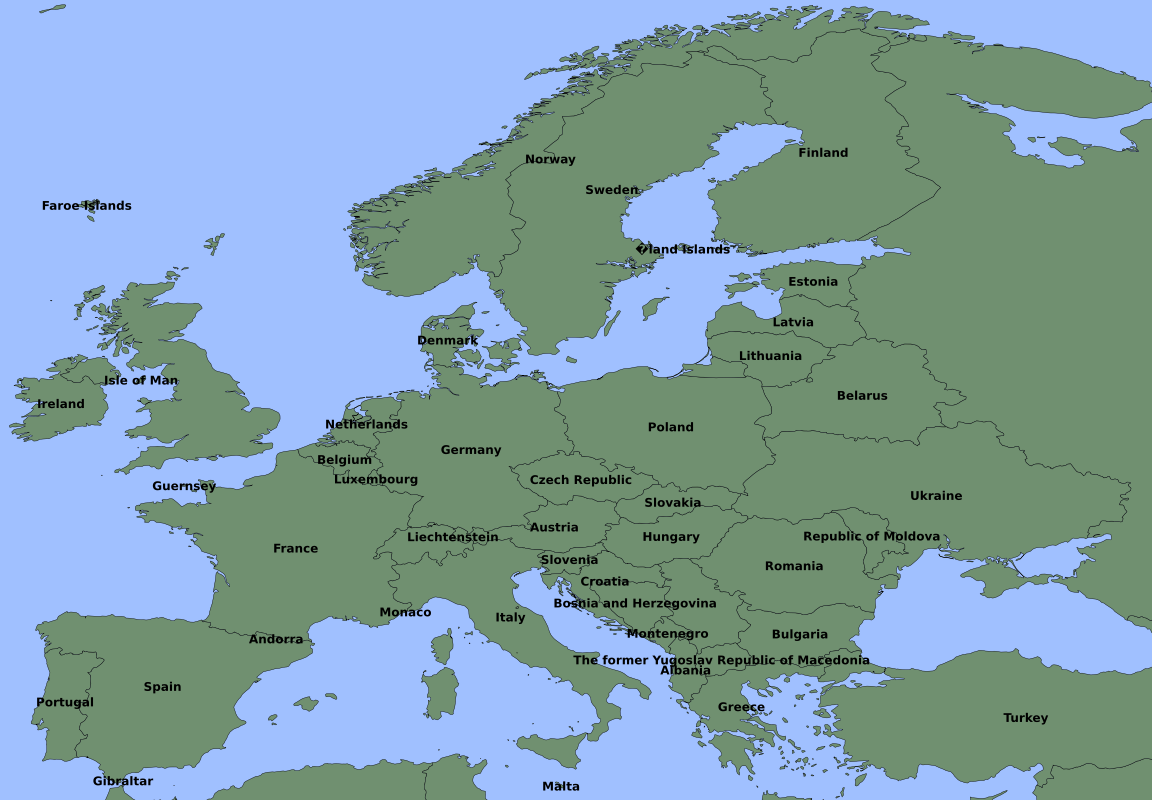
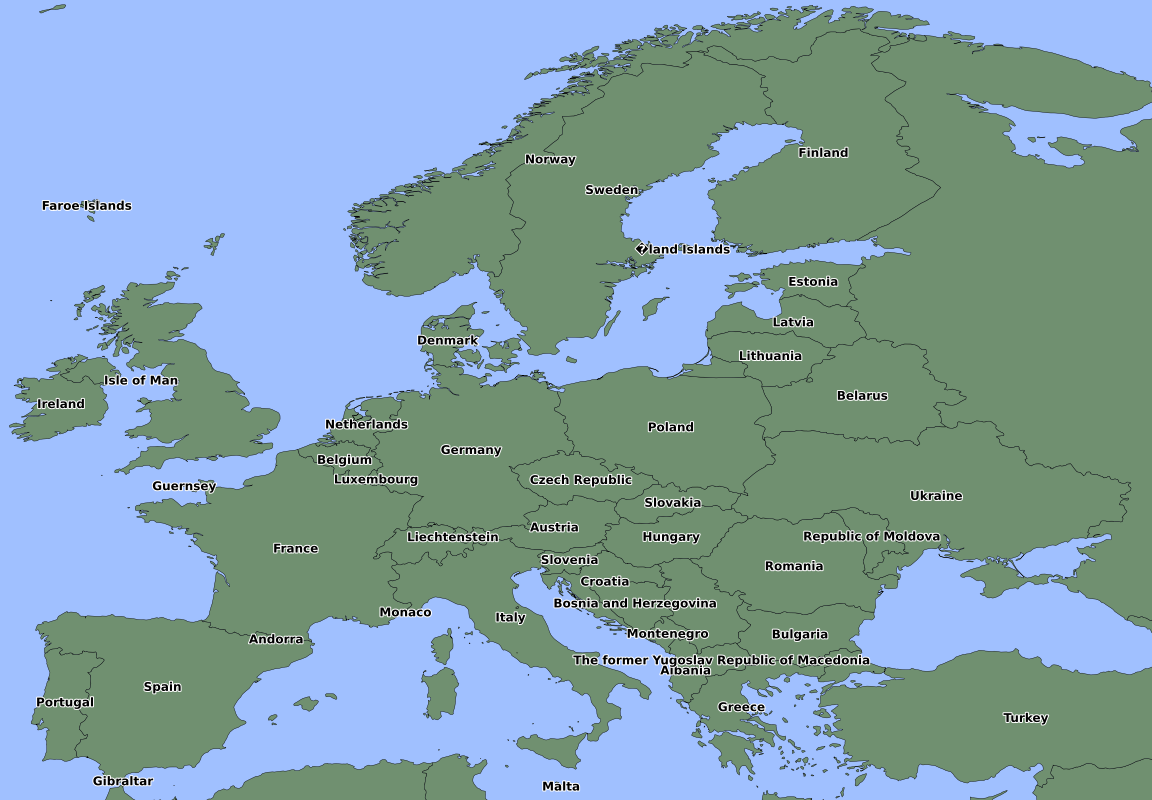
changed syntax with how modules were being imported, changed the visible extent to match a feature's bounding box

diff --git a/mapnik/shapeToMap.py b/mapnik/shapeToMap.py
@@ -1,13 +1,37 @@
 import mapnik
+from osgeo import gdal, ogr
+from shapely import geometry
+
+countryChosen = raw_input('Which country would you like to see? ')
+countryChosen = countryChosen.lower()
+print countryChosen
+
+#find bounding box for a specific feature
+shapefile = ogr.Open("TM_WORLD_BORDERS-0.3.shp")
+layer = shapefile.GetLayer(0)
+
+for i in range(layer.GetFeatureCount()):
+    feature = layer.GetFeature(i)
+    feature_name = feature.GetField("NAME")
+    feature_name = feature_name.lower()
+    if feature_name == countryChosen:
+        geometry = feature.GetGeometryRef()
+        wkt = geometry.ExportToWkt()
+        outline = shapely.wkt.loads(wkt)
+        print type(outline.bounds) #(min_x, min_y, max_x, max_y)
+
+#assign bounds of specific country to visible extent of map
+(BOUNDS_MIN_LONG, BOUNDS_MIN_LAT, BOUNDS_MAX_LONG, BOUNDS_MAX_LAT) = outline.bounds
+
 stylesheet = 'shapeToMap.xml'
 
 BACKGROUND_COLOR = '#a0c0ff'
 
 #variables for visible extent of map
-BOUNDS_MIN_LAT = 35.26
-BOUNDS_MAX_LAT = 71.39
-BOUNDS_MIN_LONG = -10.90
-BOUNDS_MAX_LONG = 41.13
+# BOUNDS_MIN_LAT = 35.26
+# BOUNDS_MAX_LAT = 71.39
+# BOUNDS_MIN_LONG = -10.90
+# BOUNDS_MAX_LONG = 41.13
 
 #max size of image - might be smaller than bounding rectangle
 MAX_WIDTH = 1600
